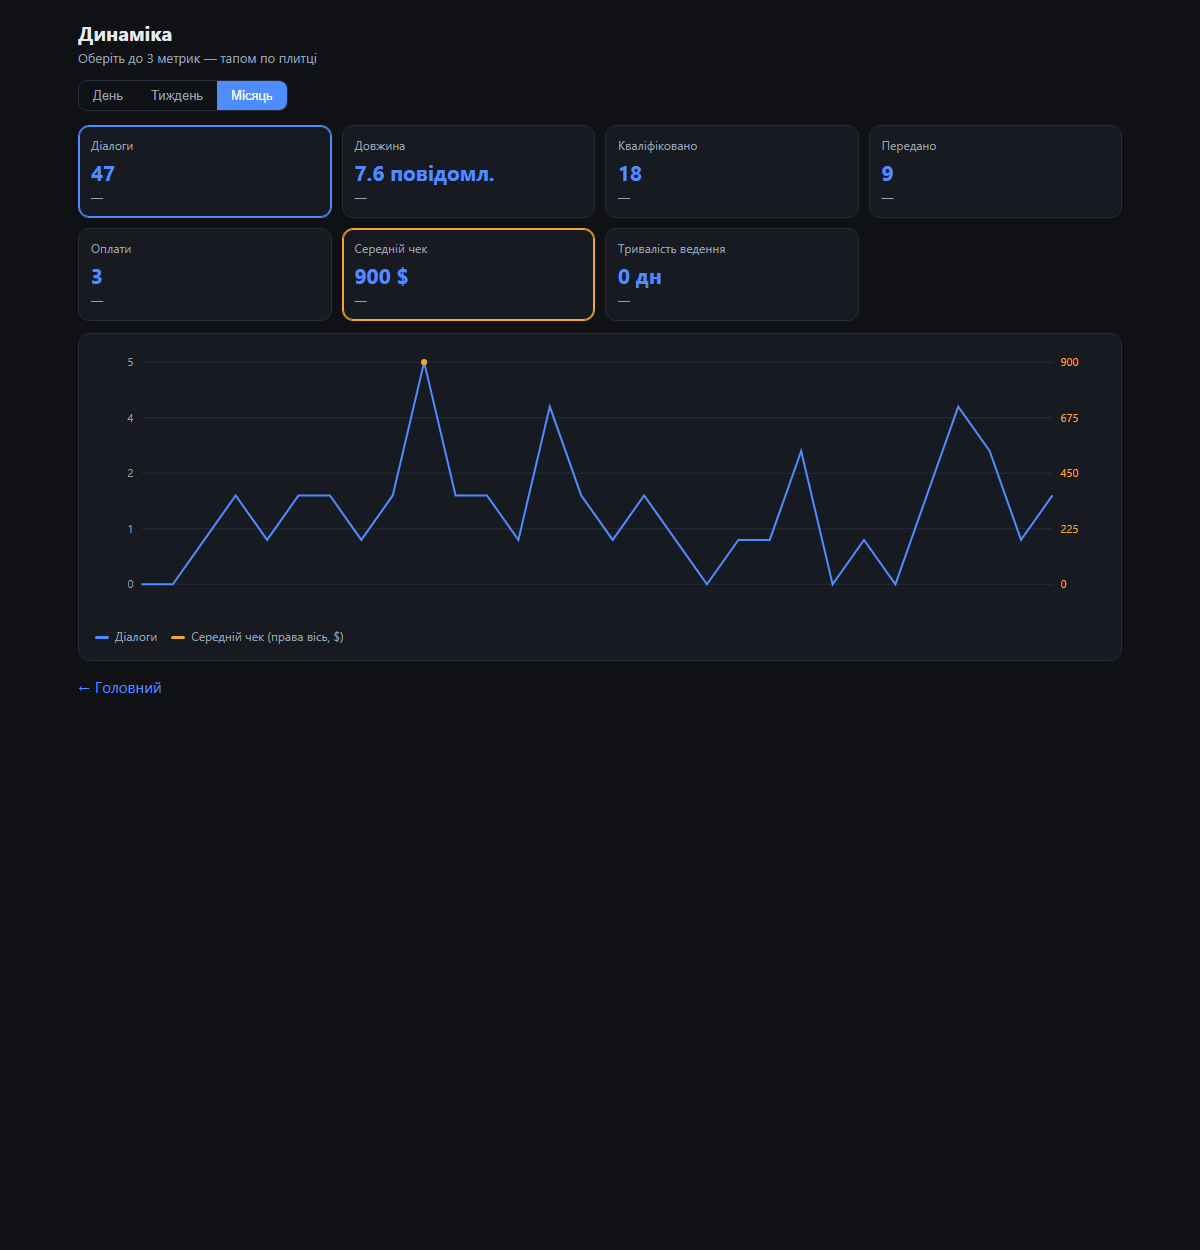
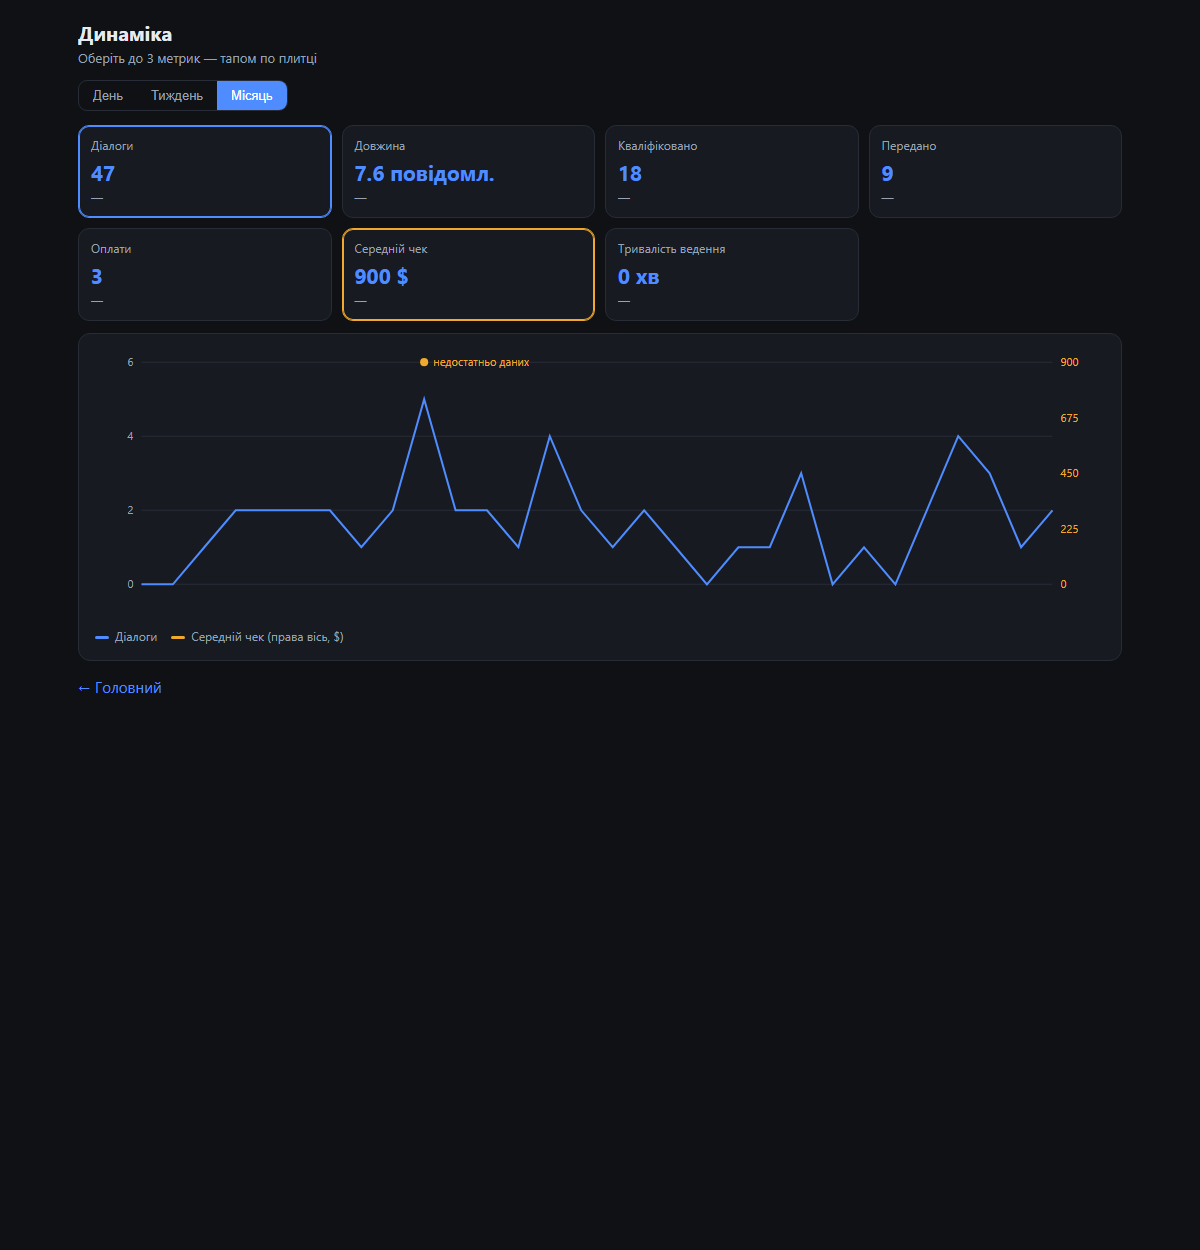
fix(panels): вёрстка по скриншотам — ствол вон из арок, вырожденная линия, ось
08: ствол phase-4.0 убран из таблицы «Арки в роботі» — он не арка, и из-за
него единственная ✅ в колонке «Змерджена» была тавтологией (ветка всегда
смержена сама в себя). Без него ✅ значит ровно «смержено, worktree можно
сносить». Фильтр вынесен в _arc_rows() — проверяемо без живого git.

05: серия из одной точки больше не рисуется ломаной (3 оплаты за месяц
выглядели как баг рендера) — маркер плюс подпись «недостатньо даних»;
серия без точек не рисуется вовсе, пометка уходит в легенду.

07: пять жёстких делений на диапазоне 0..1 давали подписи «1,1,0,0,0».
Для целочисленных метрик шаг оси берётся целым — дубли и дробные
«0.2 діалога» исчезают как класс, а не для одного диапазона.

Демо-стенд: seed пишет свежий heartbeat. Живой раннер пишет свой в
C:\jarvis, а не в worktree, поэтому стенд рисовал «Немає зв'язку» на всех
кадрах и нормальное состояние панели на скриншоты не попадало.

Сторожа парные: не только «вырожденное не рисуется», но и «с двух точек
линия обязана вернуться» / «смерженная арка галку сохраняет».

Скриншоты пересняты все 9. Прод не тронут, деплоя нет.

diff --git a/tests/chatter/test_panels_web.py b/tests/chatter/test_panels_web.py
@@ -135,3 +135,69 @@ def test_metric_without_history_is_labelled_not_zeroed(client):
     c, _ = client
     body = c.get("/panel/tamapi/dynamics?m=payments", headers={"X-Panels-Key": KEY}).text
     assert "історія накопичується" in body
+
+
+def test_trunk_is_not_listed_among_arcs():
+    """08: ствол не арка. С ним единственная ✅ в колонке «Змерджена» была
+    тавтологией — ветка всегда смержена сама в себя."""
+    from app.routers.jarvis_panel import TRUNK, _arc_rows
+    rows = _arc_rows([
+        {"branch": TRUNK, "path": "C:/jarvis", "dirty": True, "merged": True, "age_days": 0.0},
+        {"branch": "arc/panels", "path": "C:/wt/panels", "dirty": True,
+         "merged": False, "age_days": 8.0},
+    ])
+    assert TRUNK not in rows
+    assert "arc/panels" in rows
+    assert "✅" not in rows, "галка осталась только у ствола — колонка врёт"
+
+
+def test_merged_arc_still_gets_the_tick():
+    """Ради этого сигнала колонку и оставили: смержено, worktree можно сносить."""
+    from app.routers.jarvis_panel import _arc_rows
+    rows = _arc_rows([{"branch": "arc/done", "path": "C:/wt/done", "dirty": False,
+                       "merged": True, "age_days": 3.0}])
+    assert "✅" in rows
+
+
+# ── графика: панель не имеет права рисовать то, чего в данных нет ──────────────
+
+def _series(points, *, money=False, label="Середній чек", key="avg_check"):
+    from app.services.tamapi_metrics import Series
+    return Series(key=key, label=label, unit="$" if money else "",
+                  money=money, points=points)
+
+
+def test_single_point_series_is_marked_not_drawn_as_line():
+    """Одна точка — не тренд. Ломаная по одному значению читается как баг
+    рендера; честнее маркер и слова (скриншот 05: 3 оплаты за месяц)."""
+    from app.routers.panels_ui import line_chart
+    svg = line_chart([_series([(0.0, None), (1.0, 900.0), (2.0, None)], money=True)])
+    assert "<path" not in svg, "вырожденная линия по одной точке"
+    assert "недостатньо даних" in svg
+    assert "<circle" in svg, "сама точка обязана остаться видимой"
+
+
+def test_series_without_points_says_so_in_legend():
+    from app.routers.panels_ui import line_chart
+    svg = line_chart([_series([(0.0, None), (1.0, None)], money=True)])
+    assert "<path" not in svg and "<circle" not in svg
+    assert "немає даних" in svg
+
+
+def test_two_points_still_draw_a_line():
+    """Сторож против перегиба: с двух точек линия обязана вернуться."""
+    from app.routers.panels_ui import line_chart
+    svg = line_chart([_series([(0.0, 100.0), (1.0, 900.0)], money=True)])
+    assert "<path" in svg
+    assert "недостатньо даних" not in svg
+
+
+def test_integer_axis_has_no_duplicate_labels():
+    """07: на дневном 0/1-графике пять жёстких делений давали «1,1,0,0,0»."""
+    from app.routers.panels_ui import line_chart
+    svg = line_chart([_series([(0.0, 0.0), (1.0, 1.0), (2.0, 0.0), (3.0, 1.0)],
+                              label="Діалоги", key="dialogs")])
+    labels = re.findall(r"text-anchor='end'>([^<]+)</text>", svg)
+    assert labels, "левая ось пропала"
+    assert len(labels) == len(set(labels)), f"дубли на оси: {labels}"
+    assert all("." not in v for v in labels), f"дробные діалоги на оси: {labels}"

diff --git a/app/routers/jarvis_panel.py b/app/routers/jarvis_panel.py
@@ -21,6 +21,12 @@ router = APIRouter(prefix="/panel/jarvis", tags=["jarvis-panel"],
 
 _DOT = {"ok": "ok", "warn": "warn", "bad": "bad", "off": "off"}
 
+# Ствол в таблицу «Арки в роботі» не идёт: он не арка, а точка отсчёта. Из-за
+# него единственная ✅ в колонке «Змерджена» была тавтологией (ветка всегда
+# смержена сама в себя), и колонка читалась как сломанная. Без ствола ✅ значит
+# ровно одно: смержено, worktree можно сносить.
+TRUNK = "phase-4.0-unified-jarvis"
+
 
 def _rows_html(rows, now: float) -> str:
     out = []
@@ -32,6 +38,17 @@ def _rows_html(rows, now: float) -> str:
             f"<div><span class='dot {_DOT.get(r.state,'off')}'></span>{esc(r.label)}"
             f"<div class='sub' style='margin-left:17px'>{esc(r.detail)}</div></div>{tail}</div>")
     return "".join(out)
+
+
+def _arc_rows(arcs) -> str:
+    rows = "".join(
+        f"<tr><td><b>{esc(a.get('branch', '—'))}</b>"
+        f"<div class='sub mono'>{esc(a.get('path', ''))}</div></td>"
+        f"<td>{'🔴 брудне' if a.get('dirty') else '—'}</td>"
+        f"<td>{'✅' if a.get('merged') else '—'}</td>"
+        f"<td class='sub'>{esc(a.get('age_days'))} дн</td></tr>"
+        for a in arcs if a.get("branch") != TRUNK)
+    return rows or "<tr><td colspan=4 class='empty'>немає даних</td></tr>"
 
 
 @router.get("", response_class=HTMLResponse)
@@ -46,14 +63,7 @@ async def panel():
         f"{'--bad' if ext.state == 'bad' else '--warn' if ext.state == 'warn' else '--ok'})'>"
         f"<b>{esc(ext.label)}:</b> {esc(ext.detail)}</div>")
 
-    arcs = snap["arcs"]
-    arc_rows = "".join(
-        f"<tr><td><b>{esc(a.get('branch', '—'))}</b>"
-        f"<div class='sub mono'>{esc(a.get('path', ''))}</div></td>"
-        f"<td>{'🔴 брудне' if a.get('dirty') else '—'}</td>"
-        f"<td>{'✅' if a.get('merged') else '—'}</td>"
-        f"<td class='sub'>{esc(a.get('age_days'))} дн</td></tr>"
-        for a in arcs) or "<tr><td colspan=4 class='empty'>немає даних</td></tr>"
+    arc_rows = _arc_rows(snap["arcs"])
 
     ev_rows = "".join(
         f"<tr><td class='sub'>{esc(e['src'])}</td><td>{esc(e['kind'])}</td>"

diff --git a/scripts/panels_demo.py b/scripts/panels_demo.py
@@ -91,6 +91,13 @@ def seed(path: str, *, now: float | None = None) -> None:
             s.add_payment(cid, card_msg_id=9000 + i, amount=amount, currency="USD",
                           ts=start + 1200, source="card_button")
 
+    # Свежий heartbeat — часть синтетики. Без него демо-стенд рисует «Немає
+    # зв'язку» на ВСЕХ кадрах: живой раннер пишет свой heartbeat в C:\jarvis, а
+    # не в worktree, и нормальное состояние панели на скриншоты не попадает.
+    hb = Path(os.environ.get("TAMAPI_HEARTBEAT", "state/chatter_heartbeat.txt"))
+    hb.parent.mkdir(parents=True, exist_ok=True)
+    hb.write_text(str(now), encoding="utf-8")
+
     s.set_runtime_flag("kill_switch", "0", ts=now)
     for k in ("classifier_error", "resume", "escalation_kept", "payment"):
         s.add_event(k, contact_id=f"{500001}:volska", detail="", ts=now - rnd.uniform(60, 5000))

diff --git a/docs/jarvis-panel/BACKLOG.md b/docs/jarvis-panel/BACKLOG.md
@@ -1,0 +1,49 @@
+# Панели — отложенные задачи
+
+Ветка `arc/panels`. Сюда попадает то, что решено делать, но НЕ в вёрсточном
+заходе: всё, что трогает живой путь, схему БД или деплой.
+
+---
+
+## П-1. Имена лидов вместо telegram-id (решено 2026-08-06, ДА)
+
+**Где видно:** `01-tamapi-main.png` — блок «Требує вас» и лента «Діалоги»
+показывают `500002` вместо имени человека.
+
+**Почему не в вёрстке:** резолв имени требует Telethon-entity, которого у веба
+нет. Значит, имя должно попадать в БД со стороны раннера — это правка **живого
+пути**, а не шаблона.
+
+**Как делаем:**
+1. Кэшировать имя в `contacts` при **первом контакте** (раннер уже держит
+   entity в этот момент — второго запроса к Telegram не нужно).
+2. Фолбэк для безымянных — по порядку: `first_name last_name` → `@username`
+   → `id`. Пустая строка и `None` считаются отсутствием имени.
+3. Панель читает готовое поле; своих запросов к Telegram не делает никогда.
+
+**Условия приёмки:**
+- контакт без имени и без username рендерится как id — не как пустая ячейка;
+- имя не перезаписывается на пустое, если человек снял его в профиле;
+- скриншоты панелей пересняты на синтетике (боевые имена в картинки не идут —
+  см. MORNING_HANDOVER §4.5).
+
+**Порядок:** отдельным заходом, после вёрсточного. Требует скоупленного
+рестарта chatter-раннера по точному PID (не по `*guardian*`).
+
+---
+
+## П-2. Колонка «Відстає N комітів» в «Арки в роботі» (отложено 2026-08-06)
+
+**Где видно:** `08-jarvis-panel.png`, таблица арок.
+
+**Что сделано вместо:** из таблицы убран ствол `phase-4.0-unified-jarvis` —
+теперь `✅` в колонке «Змерджена» значит ровно «смержено, worktree можно
+сносить», а не тавтологию «ветка смержена сама в себя».
+
+**Что отложено:** показывать, на сколько коммитов ветка позади ствола
+(`git rev-list --count <branch>..phase-4.0-unified-jarvis`). Это отвечает на
+реальный вопрос «добивать или ретайрить» — 21 worktree возрастом 13–19 дней.
+
+**Почему не сегодня:** это правка сборщика (`app/services/jarvis_farm.py`), а не
+вёрстки, и +1 git-вызов на каждую ветку к панели, которая уже собирается 1–2 с
+на запрос. Делать вместе с кэш-снапшотом из спеки §8, а не до него.

diff --git a/docs/jarvis-panel/MORNING_HANDOVER.md b/docs/jarvis-panel/MORNING_HANDOVER.md
@@ -4,6 +4,7 @@
 Раннер не трогали, `funnel_gate`/`honesty` не трогали, прод-дерево `C:\jarvis` чистое.
 
 Скриншоты — `docs/panels-screens/` (индекс там же в README).
+Отложенные задачи (живой путь, схема, деплой) — `docs/jarvis-panel/BACKLOG.md`.
 
 ---
 
